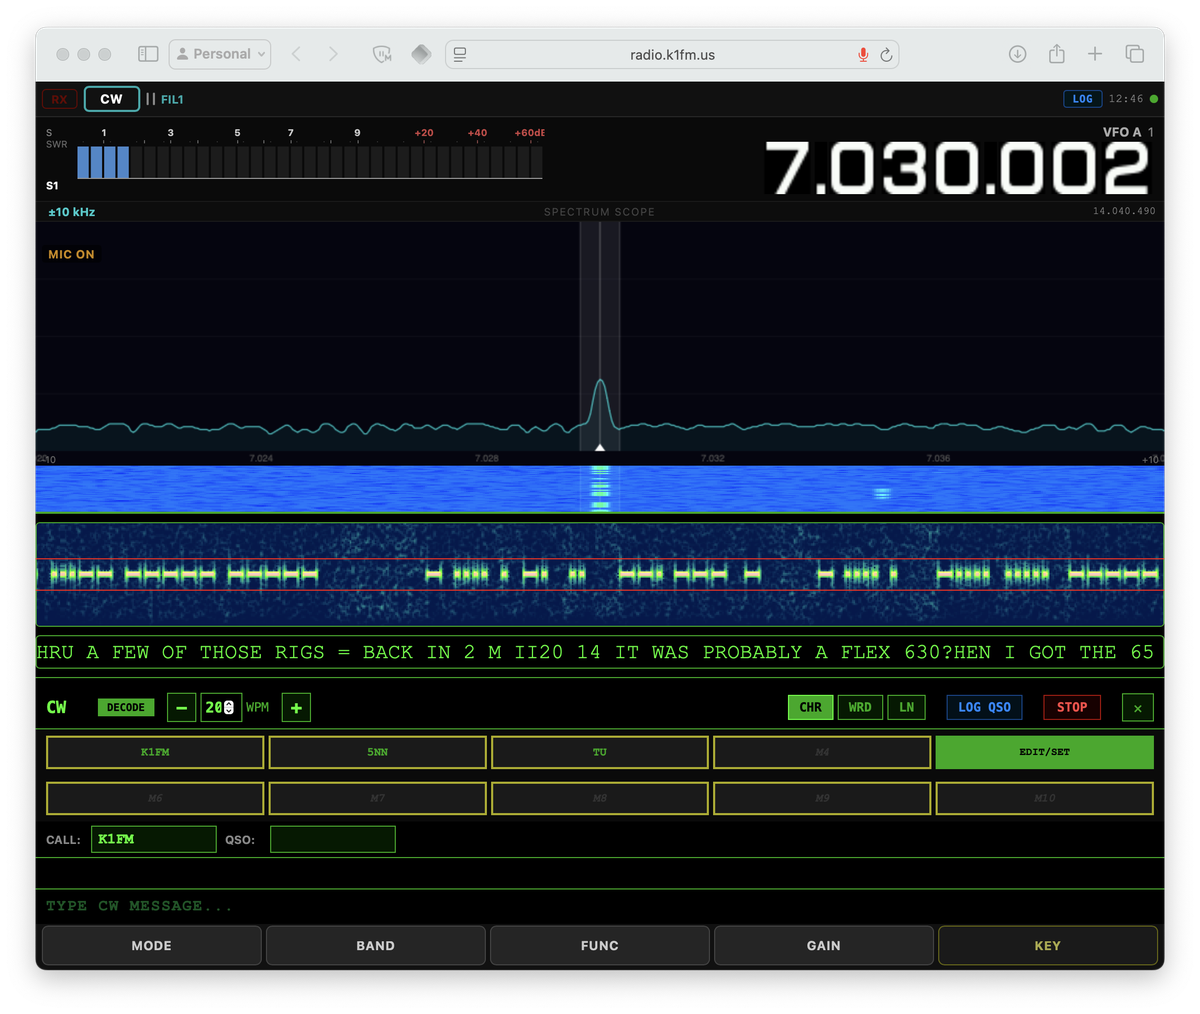
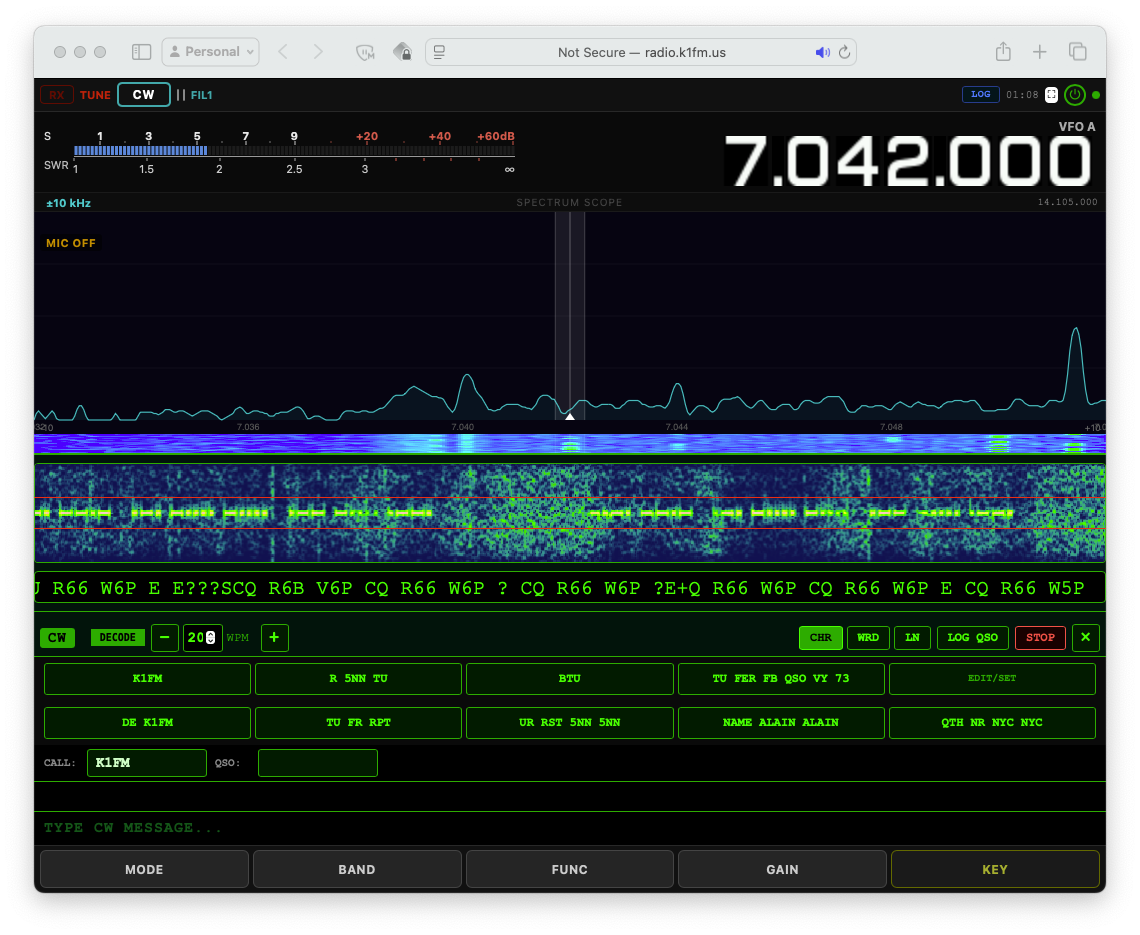
docs(readme): refresh screenshots, add the APRS map, caption each mode
Replace the four README screenshots with current captures and add a
fifth showing the APRS station map. Lead with SSB, then FT8, and give
every figure a one-line caption naming the mode it shows. Reword the
packet caption to match what the new shot actually shows — a connected
BBS session rather than a transfer in flight.

diff --git a/README.md b/README.md
@@ -4,13 +4,29 @@
 
 wfweb turns your transceiver into a web-accessible station. Waterfall, SSB, CW decoding, FT8/FT4, JS8 messaging, [FreeDV digital voice](https://youtu.be/AWdHcyiOOnY), RADE, and AX.25 packet (APRS, connected QSOs, file transfer) — all in the browser, no client software required.
 
+![SSB mode](ssb.png)
+
+**SSB** — spectrum scope and waterfall, with the browser's own microphone keying the rig.
+
 ![FT8 digital mode panel](ft8.png)
 
-![SSB mode](ssb.png)
+**FT8 / FT4** — decode, call and log without leaving the page; every decode is marked on the waterfall.
+
+![JS8 messenger panel](js8.png)
+
+**JS8** — keyboard-to-keyboard messaging, with stations heard and their signal reports, a tab per QSO, and submodes from Slow down to JS8 60.
 
 ![CW mode with decoder](cw.png)
 
-![AX.25 packet — connected QSO with YAPP file transfer in progress](packet.png)
+**CW** — built-in decoder and keyer, with editable macros and one-click QSO logging.
+
+![AX.25 packet — connected session with a BBS, YAPP file transfer available](packet.png)
+
+**Packet** — AX.25 connected mode at 300, 1200 and 9600 baud: BBS sessions, frame monitor, and YAPP file transfer.
+
+![APRS station map — live positions decoded from received beacons](aprs.png)
+
+**APRS** — received beacons plotted live on the map, drawn with the real APRS symbol set.
 
 ---
 
